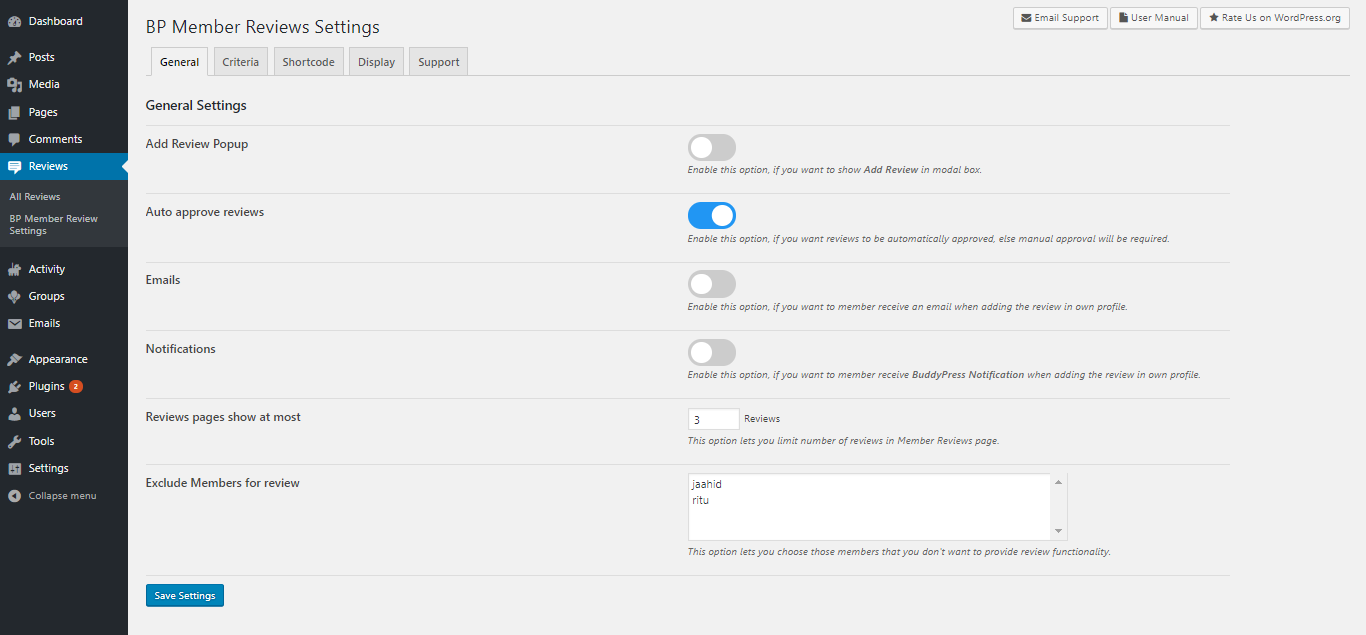
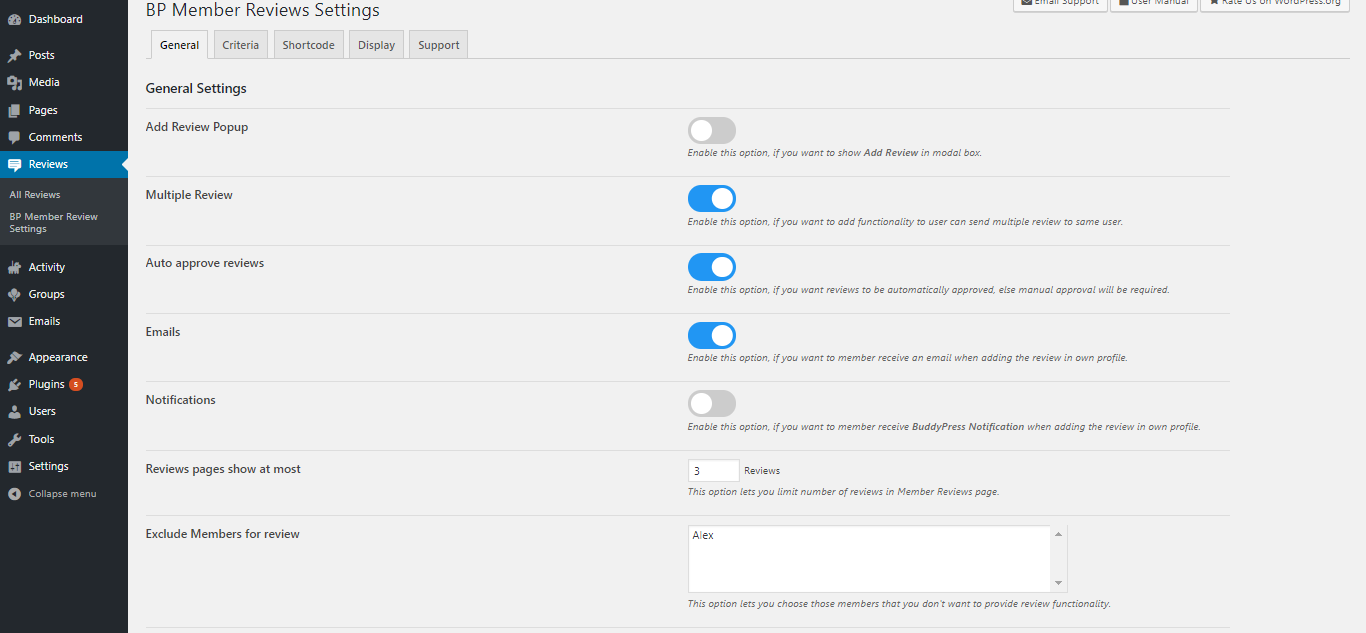
Updated language files & screenshots.

diff --git a/admin/tab-templates/bupr-setting-general-tab.php b/admin/tab-templates/bupr-setting-general-tab.php
@@ -79,7 +79,7 @@ foreach( get_users() as $user ){
                         <input type="checkbox" id="bupr-multi-review" <?php _e($bupr_multi_reviews == 'yes' ? 'checked' : '' , BUPR_TEXT_DOMAIN); ?>>
                         <div class="bupr-slider bupr-round"></div>
                     </label>
-                    <p class="description"><?php _e("Enable this option, if you want to show <b>Add Review</b> in modal box." , BUPR_TEXT_DOMAIN); ?></p>
+                    <p class="description"><?php _e("Enable this option, if you want to add functionality to user can send multiple review to same user." , BUPR_TEXT_DOMAIN); ?></p>
                 </div>
             </div>
 
